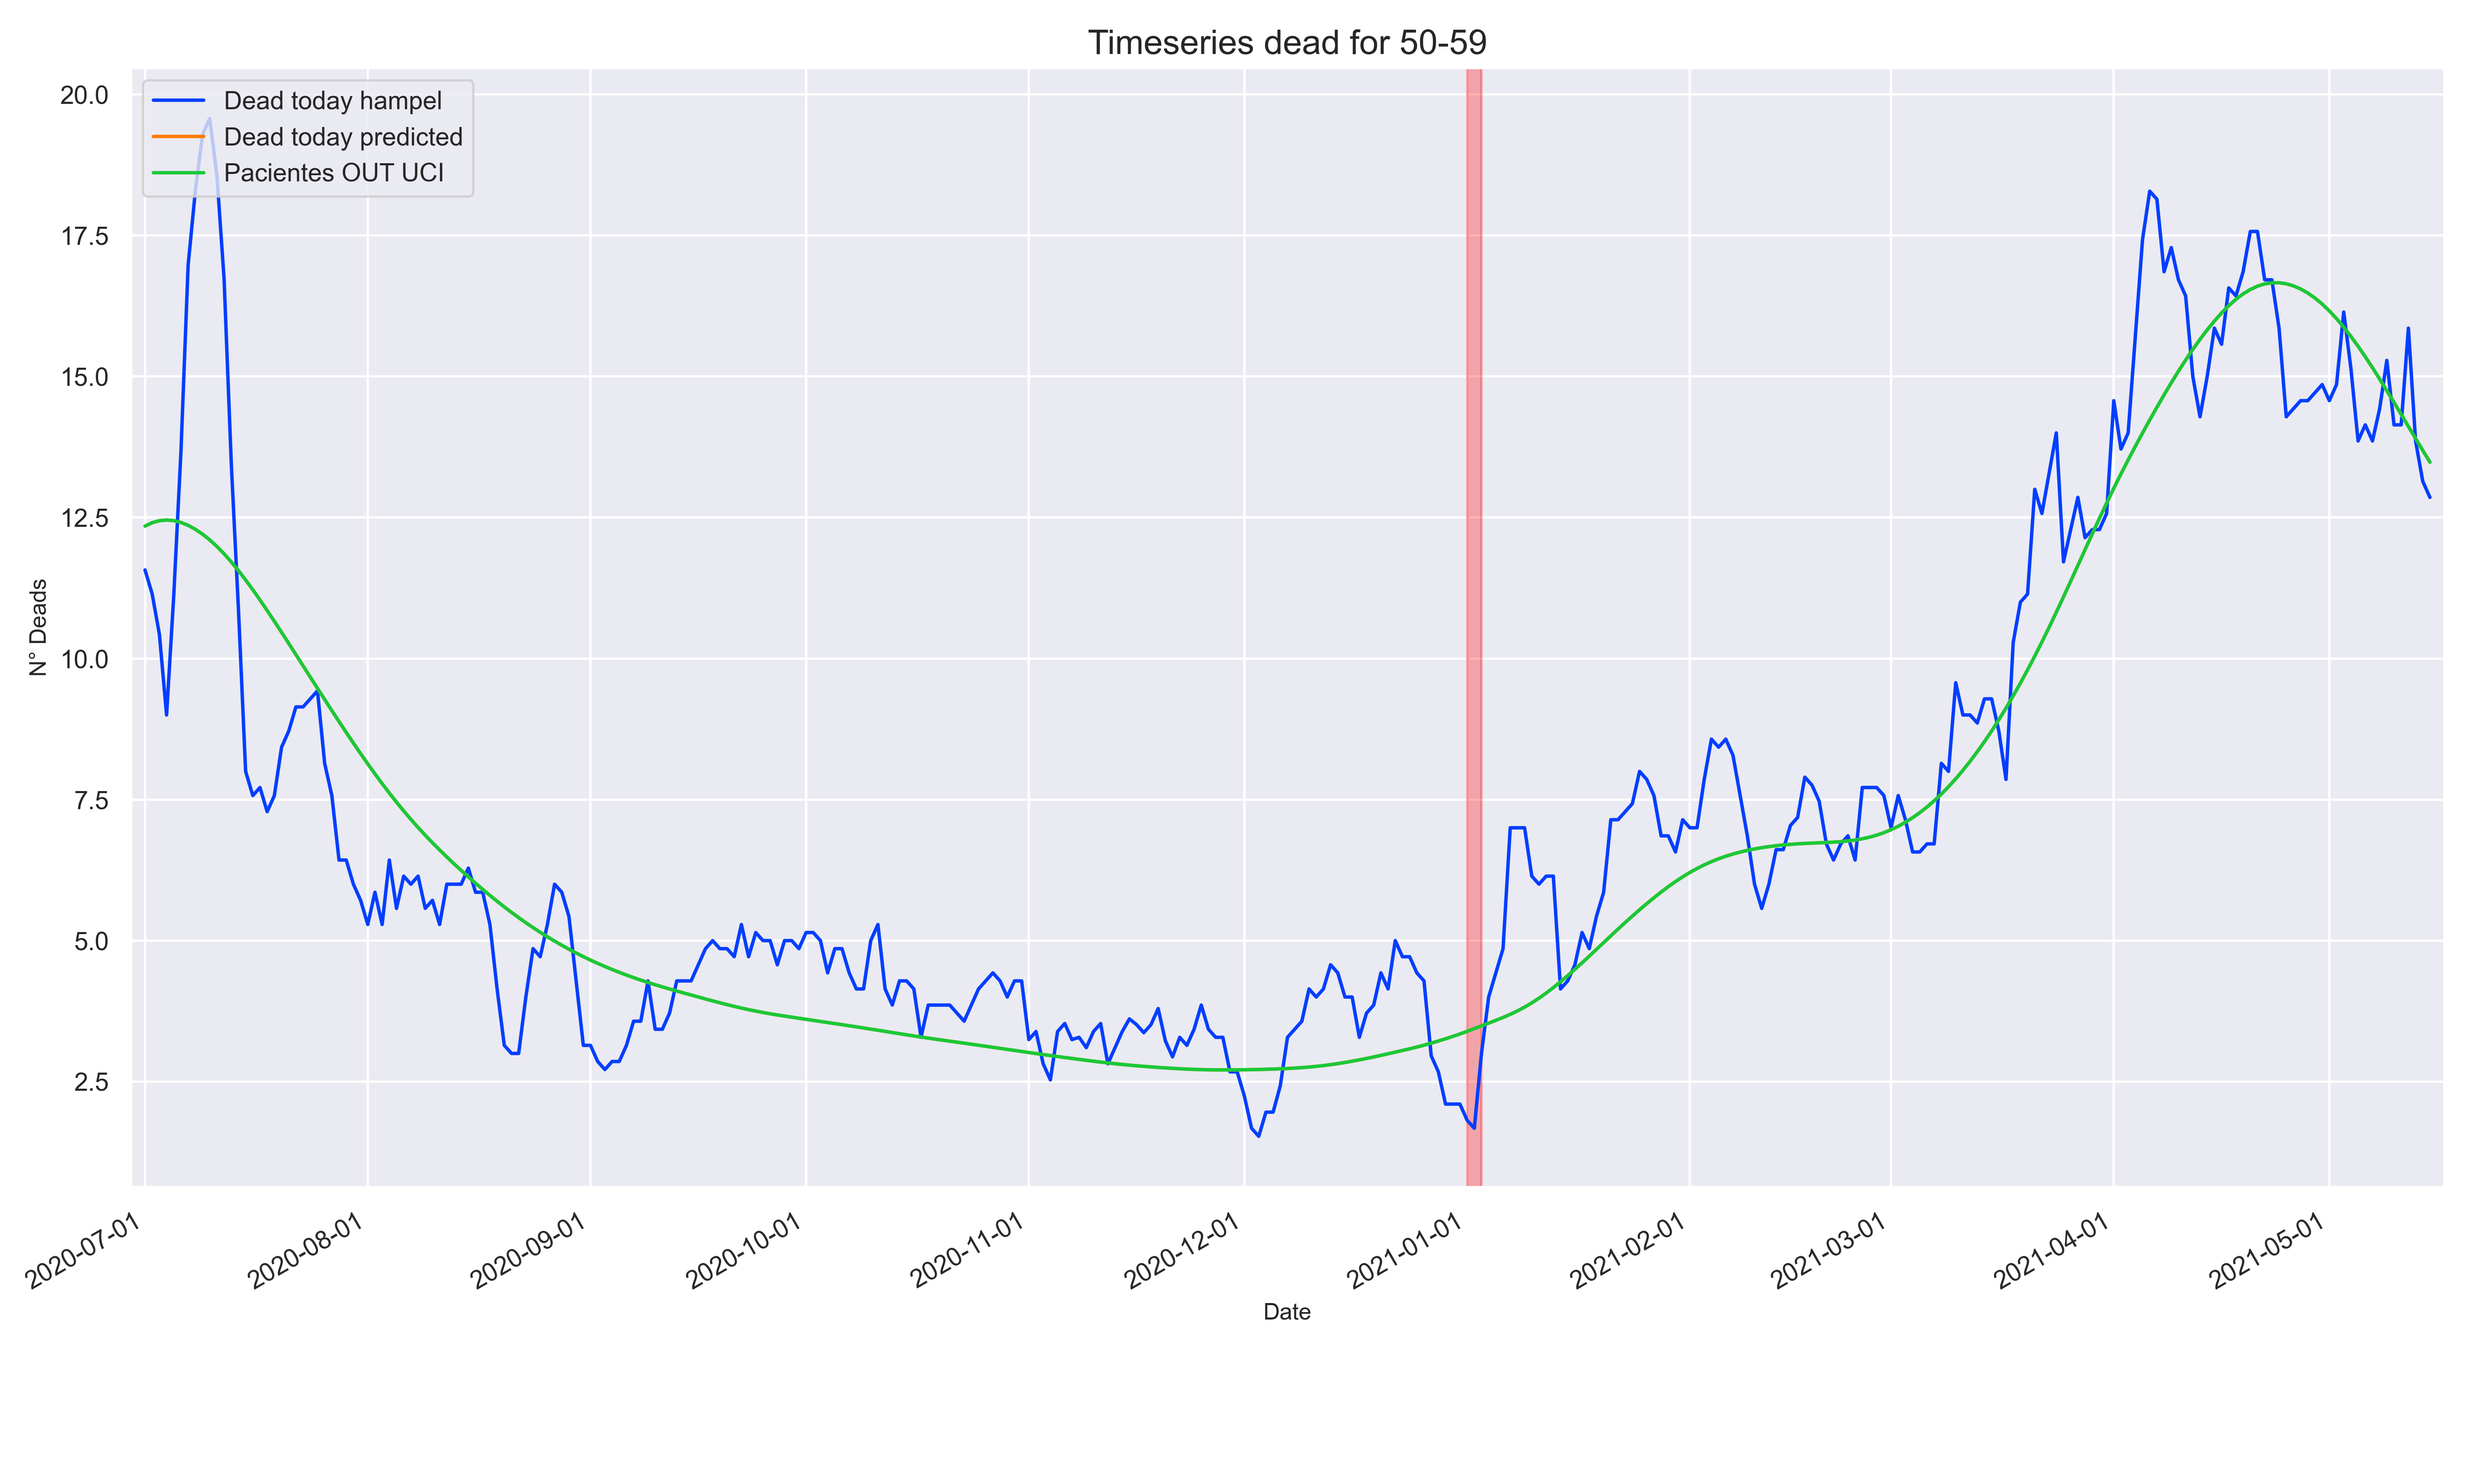
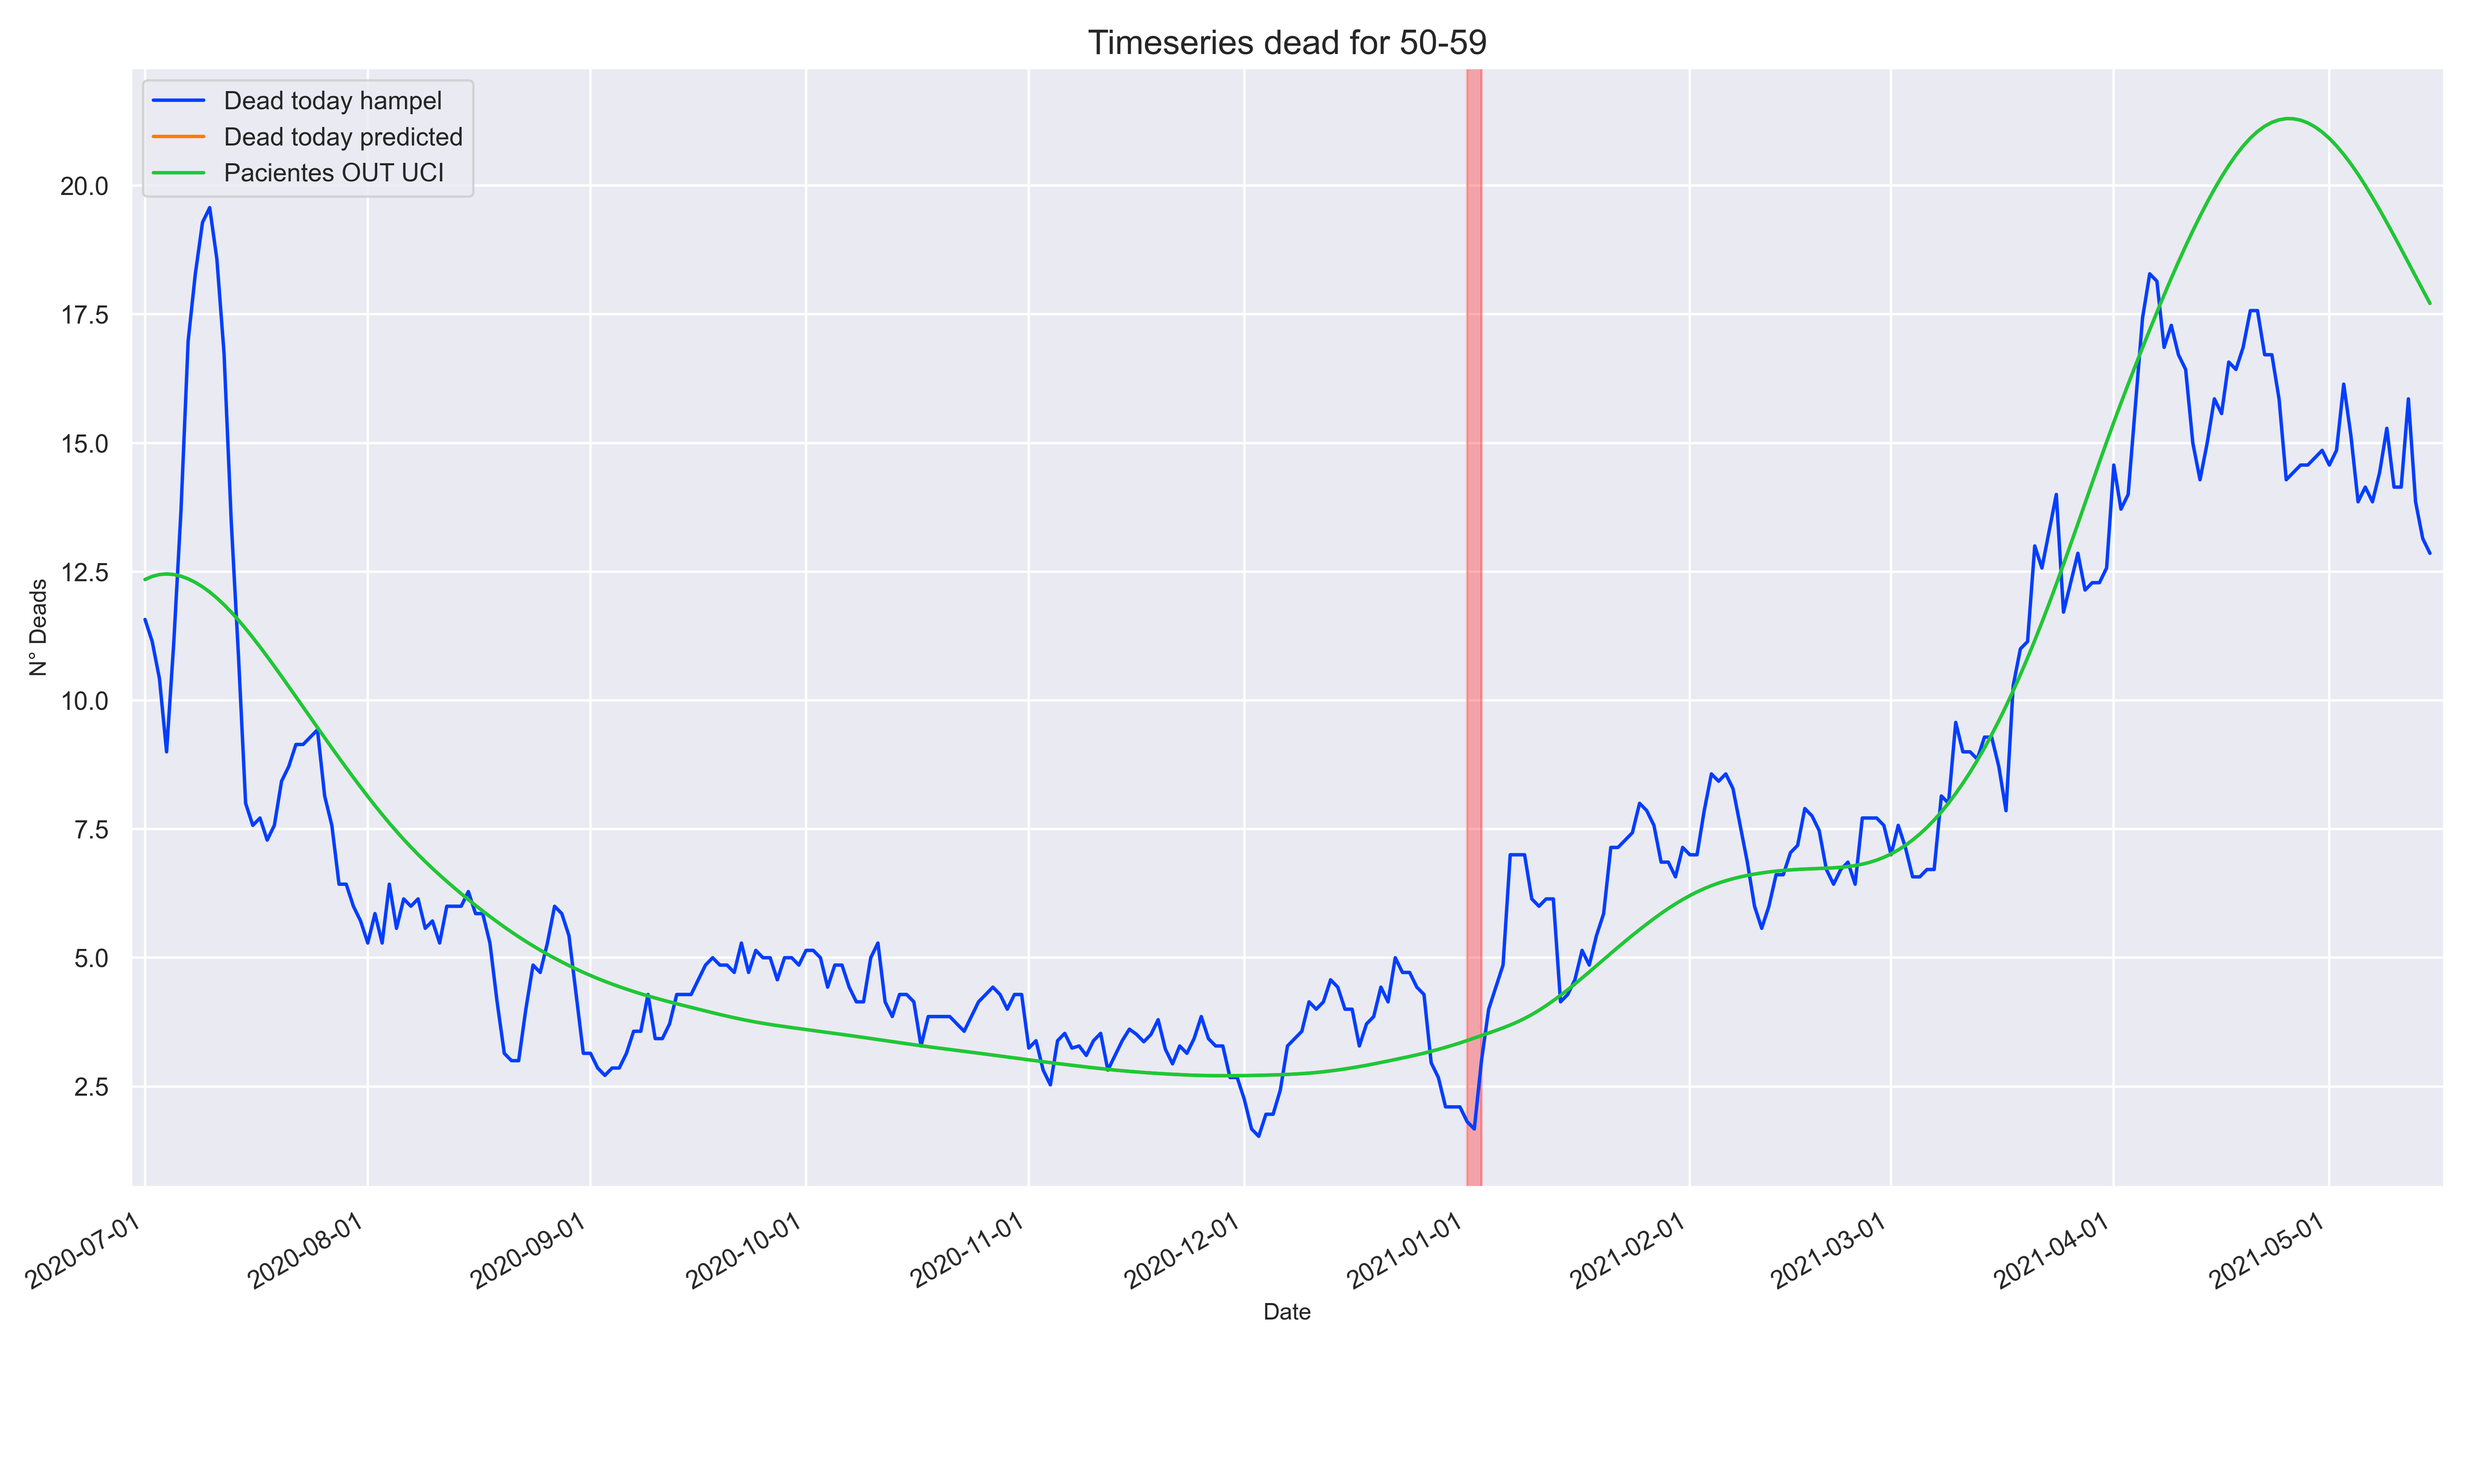
experiment fatality rate 2021

diff --git a/Code/Fatality/fit_fatality_rates.py b/Code/Fatality/fit_fatality_rates.py
@@ -221,7 +221,8 @@ def main_fit_fatality_2021_v2(data,dict_main_dead,fatality_rate, month=['May','J
 
     frames=[]
     
-    dead_pred=[]
+    dead_pred_model_2021=[]
+    dead_pred_model_2020=[]
     for g in range(len(groupID_to_group)):
         group_name=groupID_to_group[g]
         print(group_name)
@@ -248,14 +249,23 @@ def main_fit_fatality_2021_v2(data,dict_main_dead,fatality_rate, month=['May','J
         
         y_test=data['dead'][g,dateID_start_date:dateID_end_date+1]
         x_test= np.stack([item[g,dateID_start_date-(W-1):dateID_end_date+1-(W-1)] for key, item in dict_main_dead['dict_dead_variant'].items() if key!='total'],axis=0)
-        params=np.array([fit[0][0],fit[0][1],fit[0][1]])
-        y_pred=(x_test*np.array(params).reshape((3, -1))).sum(axis=0)
-        mse= MSE(y_pred,y_test)
+        params_2021=np.array([fit[0][0],fit[0][1],fit[0][1]])
+        y_pred_model_2021=(x_test*np.array(params_2021).reshape((3, -1))).sum(axis=0)
+        mse_model_2021= MSE(y_pred_model_2021,y_test)
         
-        #save data
+        params_2020=np.array([fit[0][0],fit[0][0],fit[0][0]])
+        y_pred_model_2020=(x_test*np.array(params_2020).reshape((3, -1))).sum(axis=0)
+        mse_model_2020= MSE(y_pred_model_2020,y_test)
+        
+        #save data all times series
         x_test= np.stack([item[g,:] for key, item in dict_main_dead['dict_dead_variant'].items() if key!='total'],axis=0)
-        y_pred=(x_test*np.array(params).reshape((3, -1))).sum(axis=0)
-        dead_pred.append(y_pred)
+        y_pred_model_2021=(x_test*np.array(params_2021).reshape((3, -1))).sum(axis=0)
+        dead_pred_model_2021.append(y_pred_model_2021)
+        
+        y_pred_model_2020=(x_test*np.array(params_2020).reshape((3, -1))).sum(axis=0)
+        dead_pred_model_2020.append(y_pred_model_2020)
+        
+        
         #print(f"For {groupID_to_group[g]} and {pd.to_datetime(date).strftime('%B')} the fatality rate is: {fit[0][0]}")
         
         #save values
@@ -263,16 +273,114 @@ def main_fit_fatality_2021_v2(data,dict_main_dead,fatality_rate, month=['May','J
             start_date,
             groupID_to_group[g],
             fit[0][0],fit[0][1],
-            mse]
+            mse_model_2021,mse_model_2020]
             )
     df= pd.DataFrame(frames,columns=['start_date',  'Grupo de edad',"f_no_variant","f_variants",'mse'])
-    dead_pred=np.stack(dead_pred,axis=0)
-    plot_dead_pred_sns(data, dead_pred, W=29, prob_dead=[1,1,1,1,1], start_date='2020-07-01',end_date=end_date, infected=False)
+    dead_pred_2021=np.stack(dead_pred_model_2021,axis=0)
+    dead_pred_2020=np.stack(dead_pred_model_2020,axis=0)
+
+    plot_dead_pred_sns(data, dead_pred_2021, W=29, prob_dead=[1,1,1,1,1], start_date='2020-07-01',end_date=end_date, infected=False)
     
     list_order_group=['<=39','40-49', '50-59', '60-69', '>=70']
 
 
     return df
+
+def main_fit_fatality_2021_v3(data,dict_main_dead,fatality_rate, month=['May','July'],W=29,end_date= ['2021-03-25','2021-03-12','2021-02-18','2021-05-14','2021-02-09']
+):
+    """
+    given a moving windows
+    1. give a range of time fit the curve 
+    2. evaluate the MSE in beteween 01-07 to 31-12
+    3. save result
+    
+    
+    """
+    dead=dict_main_dead['dict_dead_variant']
+    date='2021-01-01'
+    start_date='2020-07-01';
+    
+    dateID_start_date = data['date_to_dateID'][np.datetime64(start_date+"T00:00:00.000000000")]
+    #dateID_end_date = data['date_to_dateID'][np.datetime64(end_date+"T00:00:00.000000000")]
+    
+    groupID_to_group = data['groupID_to_group']
+    
+    lower_bound=fatality_rate.to_dict()['July']
+    upper_bound=fatality_rate.to_dict()['July']
+
+
+    frames=[]
+    
+    dead_pred_model_2021=[]
+    dead_pred_model_2020=[]
+    for g in range(len(groupID_to_group)):
+        group_name=groupID_to_group[g]
+        print(group_name)
+        dateID_end_date = data['date_to_dateID'][np.datetime64(end_date[g]+"T00:00:00.000000000")]
+        dateID_date = data['date_to_dateID'][np.datetime64(date+"T00:00:00.000000000")]
+        y=data['dead'][g,dateID_date:dateID_end_date+1]
+        #x= dead['Not variant'][g,dateID_date-(W-1):dateID_end_date+1-(W-1)]
+        variantes=[]
+        no_variante=[]
+        for key,item in dict_main_dead['dict_dead_variant'].items():
+            if key== 'Not variant':
+                no_variante=item[g,dateID_date-(W-1):dateID_end_date+1-(W-1)]
+            if key in ['variant', 'b117']:
+                variantes.append(item[g,dateID_date-(W-1):dateID_end_date+1-(W-1)])
+                
+        array_variantes=np.array(variantes).sum(axis=0)
+        array_no_variantes=np.array(no_variante)
+                
+        x=np.stack([array_no_variantes,array_variantes],axis=0)
+        
+        fit = curve_fit(fit_dead_2021_v2, x, y,bounds=([lower_bound[group_name],0],  #lower_bound[group_name]*0.9, lower_bound[group_name]*0.9
+                                                    [upper_bound[group_name]*1.000001,10]))
+        
+        
+        
+        y_test=data['dead'][g,dateID_start_date:dateID_end_date+1]
+        x_test= np.stack([item[g,dateID_start_date-(W-1):dateID_end_date+1-(W-1)] for key, item in dict_main_dead['dict_dead_variant'].items() if key!='total'],axis=0)
+        params_2021=np.array([fit[0][0],fit[0][1],fit[0][1]])
+        y_pred_model_2021=(x_test*np.array(params_2021).reshape((3, -1))).sum(axis=0)
+        mse_model_2021= MSE(y_pred_model_2021,y_test)
+        
+        params_2020=np.array([fit[0][0],fit[0][0],fit[0][0]])
+        y_pred_model_2020=(x_test*np.array(params_2020).reshape((3, -1))).sum(axis=0)
+        mse_model_2020= MSE(y_pred_model_2020,y_test)
+        
+        #save data all times series
+        x_test= np.stack([item[g,:] for key, item in dict_main_dead['dict_dead_variant'].items() if key!='total'],axis=0)
+        y_pred_model_2021=(x_test*np.array(params_2021).reshape((3, -1))).sum(axis=0)
+        dead_pred_model_2021.append(y_pred_model_2021)
+        
+        y_pred_model_2020=(x_test*np.array(params_2020).reshape((3, -1))).sum(axis=0)
+        dead_pred_model_2020.append(y_pred_model_2020)
+        
+        
+        y_test=data['dead'][g,dateID_start_date:dateID_end_date+1]
+        x_test= np.stack([item[g,dateID_start_date-(W-1):dateID_end_date+1-(W-1)] for key, item in dict_main_dead['dict_dead_variant'].items() if key!='total'],axis=0)
+        params=np.array([fit[0][0],fit[0][1],fit[0][1]])
+        y_pred=(x_test*np.array(params).reshape((3, -1))).sum(axis=0)
+        mse= MSE(y_pred,y_test)
+        
+        #save values
+        frames.append([
+            end_date[g],
+            groupID_to_group[g],
+            fit[0][0],fit[0][1],
+            mse_model_2021,mse_model_2020]
+            )
+    df= pd.DataFrame(frames,columns=['end_date',  'Grupo de edad',"f_no_variant","f_variants",'mse 2021','mse 2020'])
+    dead_pred_2021=np.stack(dead_pred_model_2021,axis=0)
+    dead_pred_2020=np.stack(dead_pred_model_2020,axis=0)
+    plot_dead_pred_sns_moving_windows(data, dead_pred_2021,dead_pred_2020, W=29, prob_dead=[1,1,1,1,1], start_date='2020-07-01',end_date=end_date, infected=False)
+    
+    list_order_group=['<=39','40-49', '50-59', '60-69', '>=70']
+    
+
+    return df
+
+
 
 def fit_dead_2020(x,a):
      return a*x
@@ -412,26 +520,37 @@ def plot_dead_pred_sns(data, dead, W=29, prob_dead=[1,1,1,1,1], start_date='2020
         except:
             ax.figure.savefig(path+"Fatality_rate_time_window"+group_name[:-2]+".png")
         plt.show()
-
-def plot_fatality_pred_sns_(data, dead,x_test, W=29, start_date='2020-07-01',end_date='2021-05-15', infected=False):
+        
+        
+def plot_dead_pred_sns_moving_windows(data, dead_pred_2021,dead_pred_2020, W=29, prob_dead=[1,1,1,1,1], start_date='2020-07-01',end_date=['2021-03-25','2021-03-12','2021-02-18','2021-05-14','2021-02-09'], infected=False):
     groupID_to_group = data['groupID_to_group']
     dateID_to_date = data['dateID_to_date']
     date_to_dateID = data["date_to_dateID"]
     #start_date='2020-10-01'  
 
     dateID_start_date = data['date_to_dateID'][np.datetime64(start_date+"T00:00:00.000000000")]
-    dateID_end_date = data['date_to_dateID'][np.datetime64(end_date+"T00:00:00.000000000")]
+    #dateID_end_date = data['date_to_dateID'][np.datetime64(end_date+"T00:00:00.000000000")]
     cols =['Grupo de edad', 'start_date','inf', 'dead', 'type']
     lst = []
+    
+    
+    end_date_list_ID=[data['date_to_dateID'][np.datetime64(item+"T00:00:00.000000000")] for item in end_date]
+    path_projet=os.getcwd().rsplit('ICU_Simulations',1)[0]+'ICU_Simulations/'
+    path_data='Image/Fatality/movable windows'
+    path=path_projet+path_data+''+'/'
+    os.makedirs(os.path.dirname(path), exist_ok=True)
+
+    
     for g in range(len(groupID_to_group)):
-        for date in range(dateID_start_date,dateID_end_date+1): 
+        for date in range(dateID_start_date,end_date_list_ID[g]+1):
+            #if date<=end_date_list_ID[g]:
             info = [groupID_to_group[g],dateID_to_date[date],data['inf'][g,date]*prob_dead[g]]
             info1=info.copy()
             info2=info.copy()
             info3=info.copy()
             info1.extend([data['dead'][g,date], 'real'])
-            info2.extend([dead[g,date-(W-1)]*prob_dead[g], 'predicted'])
-            info3.extend([dead[g,date-(W-1)], 'Pacientes OUT UCI'])
+            info2.extend([dead_pred_2021[g,date-(W-1)], 'predicted_2021'])
+            info3.extend([dead_pred_2020[g,date-(W-1)], 'predicted_2020'])
             lst.append(info1)
             lst.append(info2)
             lst.append(info3)
@@ -469,13 +588,18 @@ def plot_fatality_pred_sns_(data, dead,x_test, W=29, start_date='2020-07-01',end
         ax.set_ylabel('N° Deads', fontsize=10)
         ax.set_xlabel('Date', fontsize=10)
         #ax.legend(['Dead today hampel', 'Dead today predicted (factor: '+ str(prob_dead[i])+')','Pacientes OUT UCI'],loc='upper left')
-        ax.legend(['Dead today hampel', 'Dead today predicted','Pacientes OUT UCI'],loc='upper left')
+        ax.legend(['Dead today hampel', 'Dead today predicted model 2021','Dead today predicted model 2020'],loc='upper left')
 
         #g.ax.legend(bbox_to_anchor=(1.01, 1.02), loc='upper left')
         plt.tight_layout()
         plt.gcf().autofmt_xdate()
-
+        try: 
+            ax.figure.savefig(path+'Image/Fatality/'+"Fatality_rate_time_window"+group_name+".png")
+        except:
+            ax.figure.savefig(path+"Fatality_rate_time_window"+group_name[:-2]+".png")
         plt.show()
+
+
 
 #plot_dead_pred_sns(data, dead, W=29, prob_dead=[0.33,0.33,0.8,0.22,1], start_date='2020-07-01',end_date='2021-05-15', infected=False)
     
@@ -495,12 +619,17 @@ fatality_rate_aux={
 
 
 
+30% de vacunacion
+ 
 
+ ['2021-03-25','2021-03-12','2021-02-18','2021-05-15','2021-02-09']
 
+df,mse,fatality_rate=main_fit_fatality_2020(data,dict_main_dead,W=29)
 
+df1=main_fit_fatality_2021_v3(data,dict_main_dead,fatality_rate, month=['May','July'],W=29,end_date= ['2021-03-25','2021-03-12','2021-02-18','2021-05-15','2021-02-09']
+)
 
-
-
-
+df[df.month=='July']
+df1
 
 """

diff --git a/Code/icu_simulation/main_simulation_icu_2021.py b/Code/icu_simulation/main_simulation_icu_2021.py
@@ -584,7 +584,8 @@ if __name__ == "__main__":
                         save_data=False,
                         update_data=False)
     plot_uci_pred_sns(data, uci, W=29, pond=1, start_date='2020-07-01', end_date='2021-05-15', infected=False)
-
+"""
     result_dict=call_icu_MonteCarlos_simulation(data,params,
                             save_data=False,
                             update_data=False)
+"""
